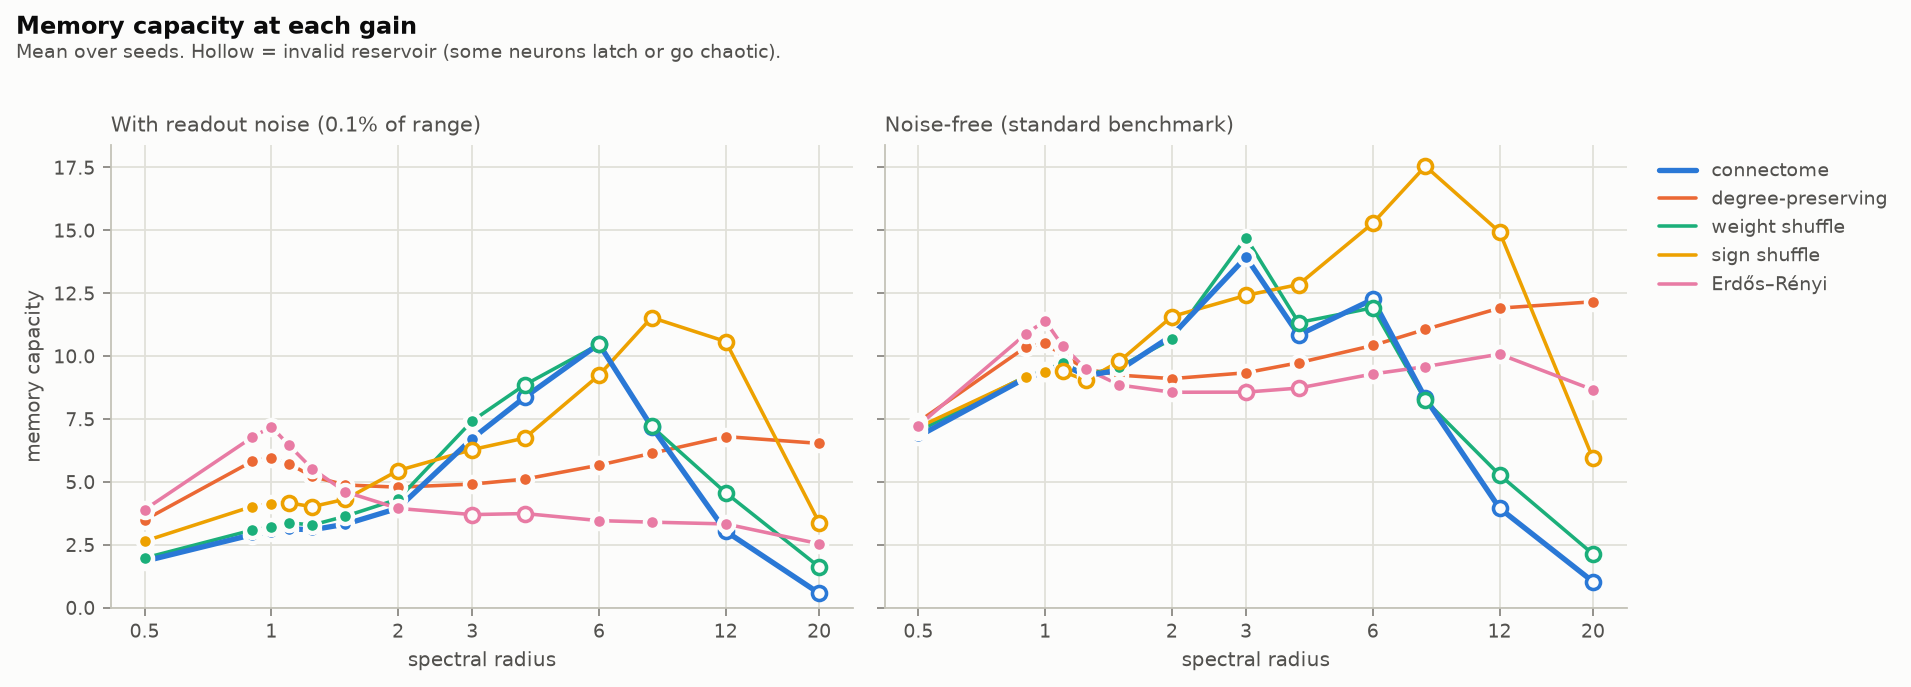
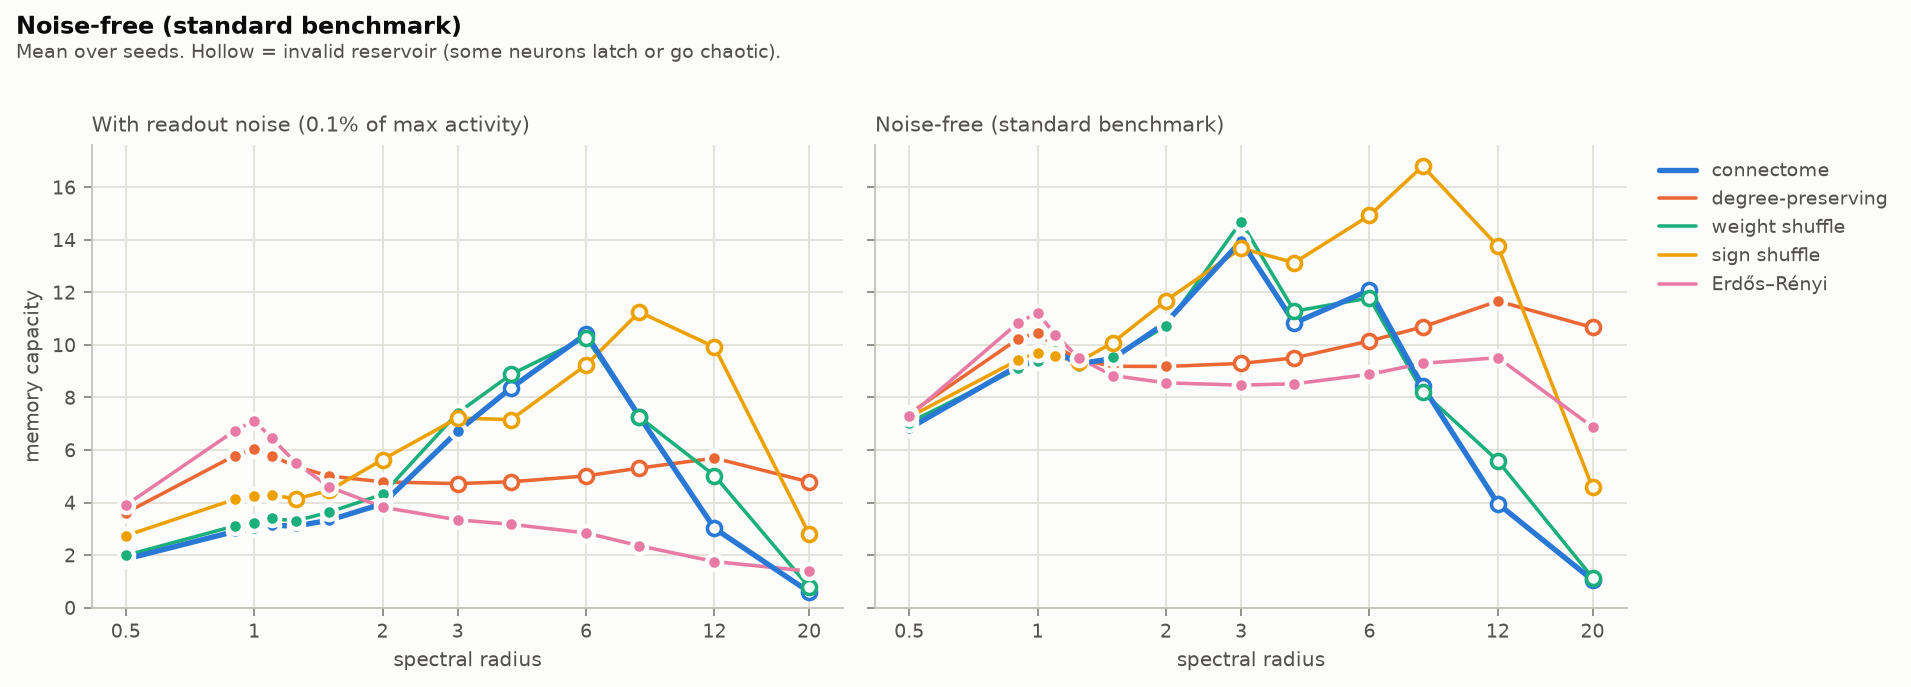
Small-circuit results from the deterministic circuit

diff --git a/README.md b/README.md
@@ -60,9 +60,9 @@ number adds a little readout noise, so it only counts memory a real readout coul
 
 | memory capacity | connectome | degree-preserving | weight shuffle | sign shuffle | Erdős–Rényi |
 |---|---|---|---|---|---|
-| 3,000 neurons, readout noise | **2.8** | 5.9 | 3.0 | 4.6 | 6.9 |
+| 3,000 neurons, readout noise | **2.8** | 5.8 | 3.0 | 4.3 | 6.8 |
 | whole CNS, readout noise | **2.2** | 15.5 | 2.4 | 2.9 | 7.4 |
-| *3,000 neurons, noise-free* | *9.2* | *10.5* | *9.3* | *10.0* | *11.0* |
+| *3,000 neurons, noise-free* | *9.2* | *10.2* | *9.2* | *9.7* | *11.0* |
 | *whole CNS, noise-free* | *14.1* | *27.7* | *15.7* | *14.0* | *16.7* |
 
 Noise-free, the fly's whole-brain memory looks respectable, but 84% of it lives in fluctuations
@@ -106,15 +106,15 @@ latching tests with different inputs, for every seed.
 
 | best valid memory, readout noise (gain) | connectome | degree-preserving | weight shuffle | sign shuffle | Erdős–Rényi |
 |---|---|---|---|---|---|
-| 3,000 neurons | 6.7 (3) | 6.8 (12) | 7.4 (3) | 4.1 (1) | 7.2 (1) |
+| 3,000 neurons | 6.7 (3) | 6.0 (1) | 7.4 (3) | 4.3 (1.1) | 7.1 (1) |
 | whole CNS | **2.9** (1.25) | 22.8 (1) | 2.9 (1.1) | 3.1 (1) | 30.8 (8) |
 
 - **3,000 neurons: a tie.** Raising the gain to 3 more than doubles the fly's memory, and four of
-  the five wirings land between 6.7 and 7.4, within the seed-to-seed spread (the sign shuffle
-  latches at any gain above 1 and stays at 4.1). In this circuit the next hot spot is much weaker
+  the five wirings land between 6.0 and 7.4, within the seed-to-seed spread (the sign shuffle
+  latches at any gain above 1.1 and stays at 4.3). In this circuit the next hot spot is much weaker
   than the antennal lobe (82 vs 251), so the gain can go up about 3× and wake most of the circuit
   (59% of readouts move) before anything latches. Noise-free, the connectome and the weight shuffle
-  even come out ahead (13.9 and 14.7 vs 9.4 to 11.9), but that lead lives in tiny fluctuations and
+  even come out ahead (14.0 and 14.7 vs 9.6 to 11.2), but that lead lives in tiny fluctuations and
   disappears with noise.
 - **Whole brain: the fly stays far behind.** Its best is 2.9 at gain 1.25, and past that its cores
   latch: the next hot spots are close behind the first (206, 178, 173…), so there's no headroom.
@@ -148,17 +148,17 @@ search.
 
 | memory with readout noise, fresh inputs | connectome | degree-preserving | weight shuffle | sign shuffle | Erdős–Rényi |
 |---|---|---|---|---|---|
-| 3,000 neurons, best single gain | 6.8 | 6.9 | 7.4 | 5.9 | 7.2 |
-| 3,000 neurons, per-region gains | **11.5** | 42.6 | 12.4 | 12.2 | 36.0 |
+| 3,000 neurons, best single gain | 6.8 | 6.0 | 7.4 | 6.7 | 7.1 |
+| 3,000 neurons, per-region gains | **11.3** | 32.7 | 12.1 | 12.6 | 38.1 |
 | whole CNS, best single gain | 3.4 | 22.9 | 3.3 | 4.7 | 30.9 |
 | whole CNS, per-region gains | **6.2** | 47.5 | 6.0 | 7.2 | 71.2 |
 
 (Single gains here are each seed's own best, measured on the fresh inputs, so they differ from the
-sweep table, which uses one gain for all seeds; most for the sign shuffle, 5.9 vs 4.1 and 4.7 vs 3.1.
+sweep table, which uses one gain for all seeds; most for the sign shuffle, 6.7 vs 4.3 and 4.7 vs 3.1.
 The fly's whole-brain single gain is valid on the fresh inputs for 2 of 3 seeds.)
 
-- **The fly gains about 75%, random wiring 2–6×.** In the small circuit the tie turns into a 3–4×
-  gap (11.5 vs 42.6 and 36.0). Across the whole brain the gap stays about where it was, 8–12×
+- **The fly gains about 75%, random wiring 2–5×.** In the small circuit the tie turns into a 3×
+  gap (11.3 vs 32.7 and 38.1). Across the whole brain the gap stays about where it was, 8–12×
   (6.2 vs 47.5 and 71.2).
 - **Same split as before.** The three wirings with the fly's connections end up together (around 12
   in the small circuit, 6 to 7 in the whole brain), the two scrambled ones far above.
@@ -191,8 +191,8 @@ on fresh ones, as before.
 
 | memory with readout noise, fresh inputs | connectome | degree-preserving | weight shuffle | sign shuffle | Erdős–Rényi |
 |---|---|---|---|---|---|
-| 3,000 neurons, best single gain | 6.8 | 6.9 | 7.4 | 5.9 | 7.2 |
-| 3,000 neurons, homeostatic | 15.3 (1 of 3 seeds valid) | 17.3 | 17.9 | 13.1 (2 of 3) | 15.5 |
+| 3,000 neurons, best single gain | 6.8 | 6.0 | 7.4 | 6.7 | 7.1 |
+| 3,000 neurons, homeostatic | 15.4 (1 of 3 seeds valid) | 19.8 | 17.8 | 10.0 | 15.1 |
 | whole CNS, best single gain | 3.4 (2 of 3) | 22.9 | 3.3 | 4.7 | 30.9 |
 | whole CNS, homeostatic | **5.4** (2 of 3) | 55.2 | latches (0 of 3) | 9.6 | 39.5 |
 
@@ -214,10 +214,9 @@ do.)
   can have no level near the target: a bit more gain tips its neighborhood into a self-sustained
   active state, a bit less drops it back. So after 30 rounds usually only a minority of neurons are
   within ×2 of the target; at the highest target it does settle, and then almost everything latches
-  (1 valid of 30 tries). Two other rules collapsed first (documented in
-  `src/flyres/homeostasis.py`). Validity this close to the edge is also fragile: the same
-  small-circuit run gave the fly 0 valid tries on one machine and 1 on another. Erdős–Rényi's
-  whole-brain number varies a lot between seeds (39.5 ± 37.6).
+  (2 valid of 30 tries). Two other rules collapsed first (documented in
+  `src/flyres/homeostasis.py`). Erdős–Rényi's whole-brain number varies a lot between seeds
+  (39.5 ± 37.6).
 
 **A second benchmark: NARMA-10 (`scripts/narma.py`).** Memory capacity only asks a reservoir to
 replay its input. NARMA-10, the standard benchmark since Jaeger (2003), asks it to compute with it:
@@ -231,7 +230,7 @@ at every gain and is judged at its best valid one, with the same readout noise a
 
 | NARMA-10 error (NRMSE, lower is better), best valid gain | connectome | degree-preserving | weight shuffle | sign shuffle | Erdős–Rényi |
 |---|---|---|---|---|---|
-| 3,000 neurons, readout noise | 0.70 | 0.67 | 0.70 | 0.66 | 0.66 |
+| 3,000 neurons, readout noise | 0.70 | 0.66 | 0.70 | 0.65 | 0.68 |
 | whole CNS, readout noise | **0.77** | 0.42 | 0.75 | 0.76 | 0.50 |
 | *whole CNS, noise-free* | *0.43* | *0.37* | *0.43* | *0.38* | *0.40* |
 
@@ -239,9 +238,9 @@ at every gain and is judged at its best valid one, with the same readout noise a
   connections beat the linear model (0.42 and 0.50); the three that keep them don't (0.75 to 0.77),
   even at their best gain.
 - **Memory capacity predicts it.** Over all valid whole-brain reservoirs, more memory means lower
-  NARMA error (Spearman ρ = −0.69, 90 reservoirs; −0.30 in the small circuit). So memory capacity
+  NARMA error (Spearman ρ = −0.69, 90 reservoirs; −0.38 in the small circuit). So memory capacity
   isn't a quirky benchmark: it tracks the ability to compute with the past.
-- **In the small circuit nothing beats the linear model** once there's readout noise (best 0.66
+- **In the small circuit nothing beats the linear model** once there's readout noise (best 0.65
   against 0.60). 300 readout neurons out of 3,000 can't carry that product cleanly enough.
 - **Noise-free, every wiring looks alike** (0.37 to 0.43 across the whole brain, in line with
   published echo state results), because the readout decodes the fly's millionth-sized
@@ -264,10 +263,10 @@ So leak rates 0.5 and 0.2, where each neuron keeps part of its previous state.
 | whole CNS, random input neurons | **2.3** | 21.0 | 2.6 | 2.9 | 29.5 |
 | whole CNS, leak rate 0.5 | **0.8** | 4.2 | 0.7 | 1.3 | 2.0 |
 | whole CNS, leak rate 0.2 | **0.3** | 1.0 | 0.2 | 0.4 | 0.6 |
-| 3,000 neurons, standard | **6.7** | 6.8 | 7.4 | 4.1 | 7.2 |
-| 3,000 neurons, random input neurons | **3.6** | 6.3 | 3.9 | 6.1 | 7.2 |
-| 3,000 neurons, leak rate 0.5 | **4.9** | 3.0 | 5.1 | 2.1 | 3.4 |
-| 3,000 neurons, leak rate 0.2 | **3.2** | 1.3 | 3.5 | 0.9 | 1.6 |
+| 3,000 neurons, standard | **6.7** | 6.0 | 7.4 | 4.3 | 7.1 |
+| 3,000 neurons, random input neurons | **3.6** | 6.1 | 3.9 | 7.5 | 7.2 |
+| 3,000 neurons, leak rate 0.5 | **4.9** | 2.9 | 5.1 | 2.2 | 3.3 |
+| 3,000 neurons, leak rate 0.2 | **3.2** | 1.3 | 3.5 | 1.0 | 1.5 |
 
 (3 seeds each. The standard rows are the gain sweep again.)
 
@@ -282,7 +281,7 @@ So leak rates 0.5 and 0.2, where each neuron keeps part of its previous state.
   and the fly stays behind the best control (5× and 3×), so there's little left to compare.
 - **The one twist: slow neurons in the small circuit.** There the fly's connections with their real
   signs (connectome and weight shuffle) lose the least and end up ahead of both scrambled wirings
-  (4.9 and 5.1 vs 3.0 and 3.4 at leak 0.5, 3.2 and 3.5 vs 1.3 and 1.6 at 0.2); shuffling the signs
+  (4.9 and 5.1 vs 2.9 and 3.3 at leak 0.5, 3.2 and 3.5 vs 1.3 and 1.5 at 0.2); shuffling the signs
   puts the same connections last. With leaky neurons they tolerate gains of 4 to 6 before latching,
   while the scrambled wirings do best near 1. It's the only setting in this project where the fly's
   wiring beats random wiring on memory with readout noise; it doesn't carry over to the whole brain,
@@ -303,7 +302,7 @@ rule.
 | male CNS, whole | **2.9** (1.25) | 22.8 (1) | 2.9 (1.1) | 3.1 (1) | 30.8 (8) |
 | FlyWire, whole brain | **3.0** (1.25) | 21.8 (1) | 3.1 (1.5) | 3.3 (1) | 72.4 (1.5) |
 | male CNS, 3,000 neurons | **6.7** (3) | 6.8 (12) | 7.4 (3) | 4.1 (1) | 7.2 (1) |
-| FlyWire, 3,000 neurons | **4.8** (2) | 21.2 (1) | 3.8 (1.5) | 11.8 (1) | 27.2 (1.25) |
+| FlyWire, 3,000 neurons | **4.8** (2) | 24.8 (1.25) | 3.8 (1.5) | 6.7 (1.25) | 41.5 (1.1) |
 
 (3 seeds each.)
 
@@ -316,16 +315,15 @@ rule.
   against 16.1. At each wiring's best gain the fly reaches 3.0 against 22 and 72, and the three
   wirings with the fly's connections end up at 3.0 to 3.3, as in the male CNS (2.9 to 3.1).
 - **The small-circuit tie doesn't replicate.** FlyWire's 3,000-neuron circuit, grown the same way
-  from its most-connected sensory neurons, leaves the fly 4–6× behind even at its best gain (4.8 vs
-  21 and 27). The tie was a property of the male CNS circuit, not of fly wiring.
-- **Where FlyWire differs.** Erdős–Rényi does much better (72 vs 31, with a large seed spread, ±23),
-  and in the small circuit shuffling the signs helps (11.8 vs the fly's 4.8), which it doesn't in the
-  male CNS.
-- **Robustness on FlyWire's small circuit.** Random input neurons leave the fly behind again (4.0
-  vs 27.5). The slow-neuron twist only half holds: at leak 0.5 the fly comes out ahead (11.4 vs 8.2),
-  but only at gains where its validity flips from one gain to the next (valid at 8 and 12, not at 4
-  and 6), and the weight shuffle, with the same connections, doesn't get there; at leak 0.2 the fly
-  is behind (2.1 vs 3.1). So that exception is fragile.
+  from its most-connected sensory neurons, leaves the fly 5–9× behind even at its best gain (4.8 vs
+  25 and 42). The tie was a property of the male CNS circuit, not of fly wiring.
+- **Where FlyWire differs.** Erdős–Rényi does much better (72 vs 31 across the whole brain, 42 vs 7 in
+  the small circuit), with a large seed spread (±23 and ±14).
+- **Robustness on FlyWire's small circuit.** Random input neurons leave the fly behind again (3.8
+  vs 34.5). The slow-neuron twist only half holds: at leak 0.5 the fly draws level with the best
+  control (9.1 vs 8.9), but only at a gain where it passes the latching tests while the gains around
+  it fail (valid at 8, not at 4, 6 or 12), and the weight shuffle, with the same connections, never
+  gets there; at leak 0.2 the fly is behind (2.0 vs 3.4). So that exception is fragile.
 
 So: biological wiring isn't a better reservoir, and at brain scale it's a clearly worse one, whether
 it gets one global gain, one per region or one per neuron, on both benchmarks, with the input moved
@@ -370,12 +368,14 @@ gap between a reservoir and *HAR + inputs* is what the wiring adds.
   better at 5 days (Spearman ρ = −0.33 over 50 reservoirs, p = 0.02). With every wiring at its best
   gain, where memory ranges from 3 to 31, there's no relationship (15 reservoirs). The HAR features
   already carry a month of history, which leaves little for the reservoir's own memory to add.
-- The 3,000-neuron circuit tells the same story (reservoirs −15.3% to −16.3% vs HAR at 5 days, HAR +
-  inputs −14.2%). No memory link at 5 days; at 22 days more memory goes with lower error (ρ = −0.45,
-  25 reservoirs, p = 0.02), but there most reservoirs trail the linear model anyway, and with four
-  such correlations tested one p of 0.02 is weak evidence. One failure worth knowing: the
-  degree-preserving shuffle at gain 12 is saturated (10% of readouts move) and forecast 0.6%
-  annualized volatility on 23 October 2008, one bad day that dominates that seed's QLIKE.
+- The 3,000-neuron circuit tells the same story (reservoirs −15.2% to −16.0% vs HAR at 5 days, HAR +
+  inputs −14.2%). More memory goes with slightly lower error at both horizons (ρ = −0.37, p = 0.07 at
+  5 days; −0.41, p = 0.04 at 22; 25 reservoirs), but at 22 days most reservoirs trail the linear
+  model anyway, and with four such correlations tested that's weak evidence. One failure worth
+  knowing: with every wiring at its best gain, one seed of the sign shuffle (gain 1.1) passes all
+  its white-noise latching tests but blows up in the 2008 crash. From late October 2008 to March
+  2009 it forecasts more than 200% annualized volatility, peaking in the thousands of percent, where
+  its other seeds say about 45%. That one seed puts the sign shuffle's average below HAR (+15.7%).
 
 Why log MSE and not QLIKE, the usual volatility loss: every log model here (HAR, HAR + inputs, the
 reservoirs) is fitted for log MSE, so it compares them like for like. Log models target the mean of
